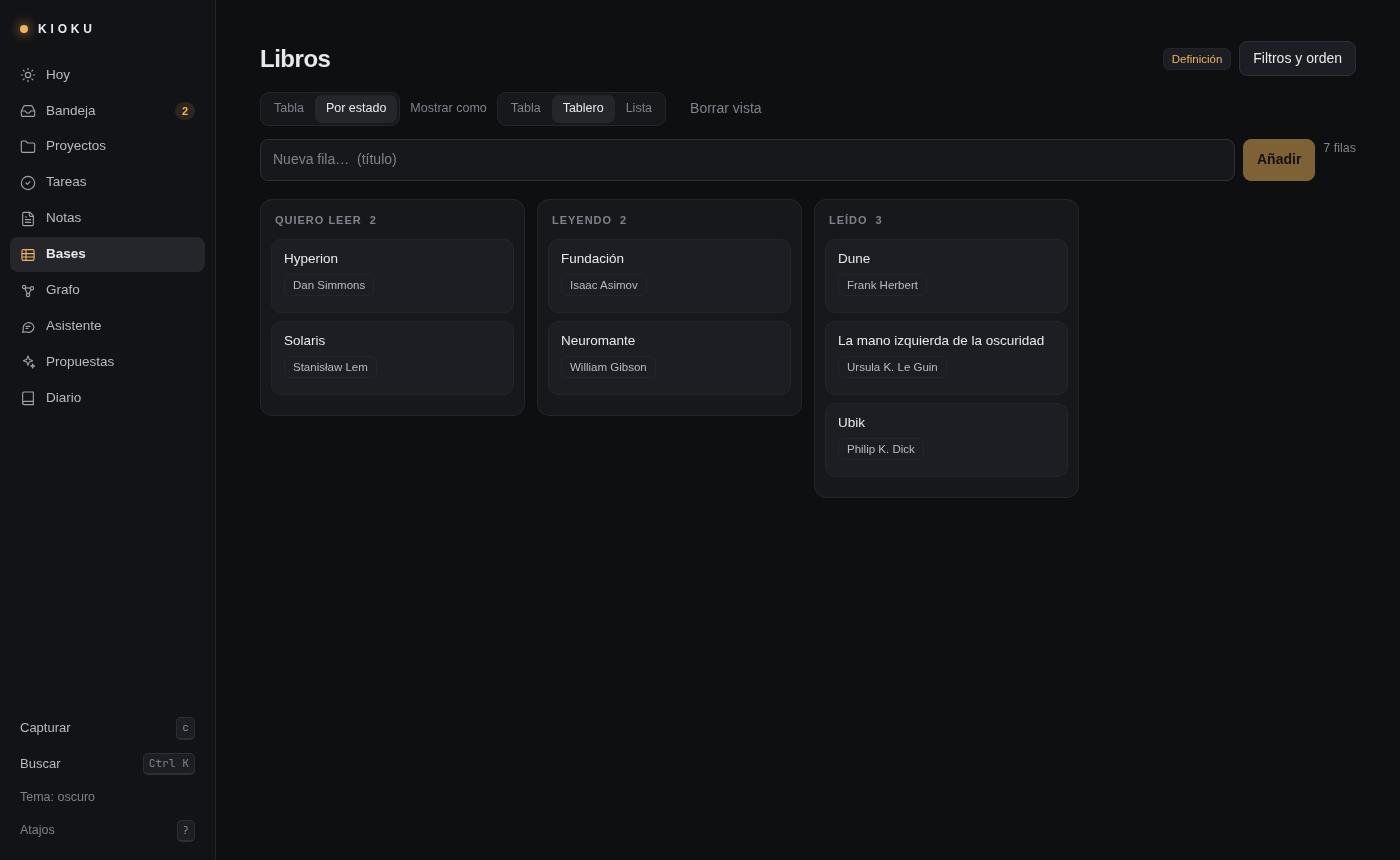
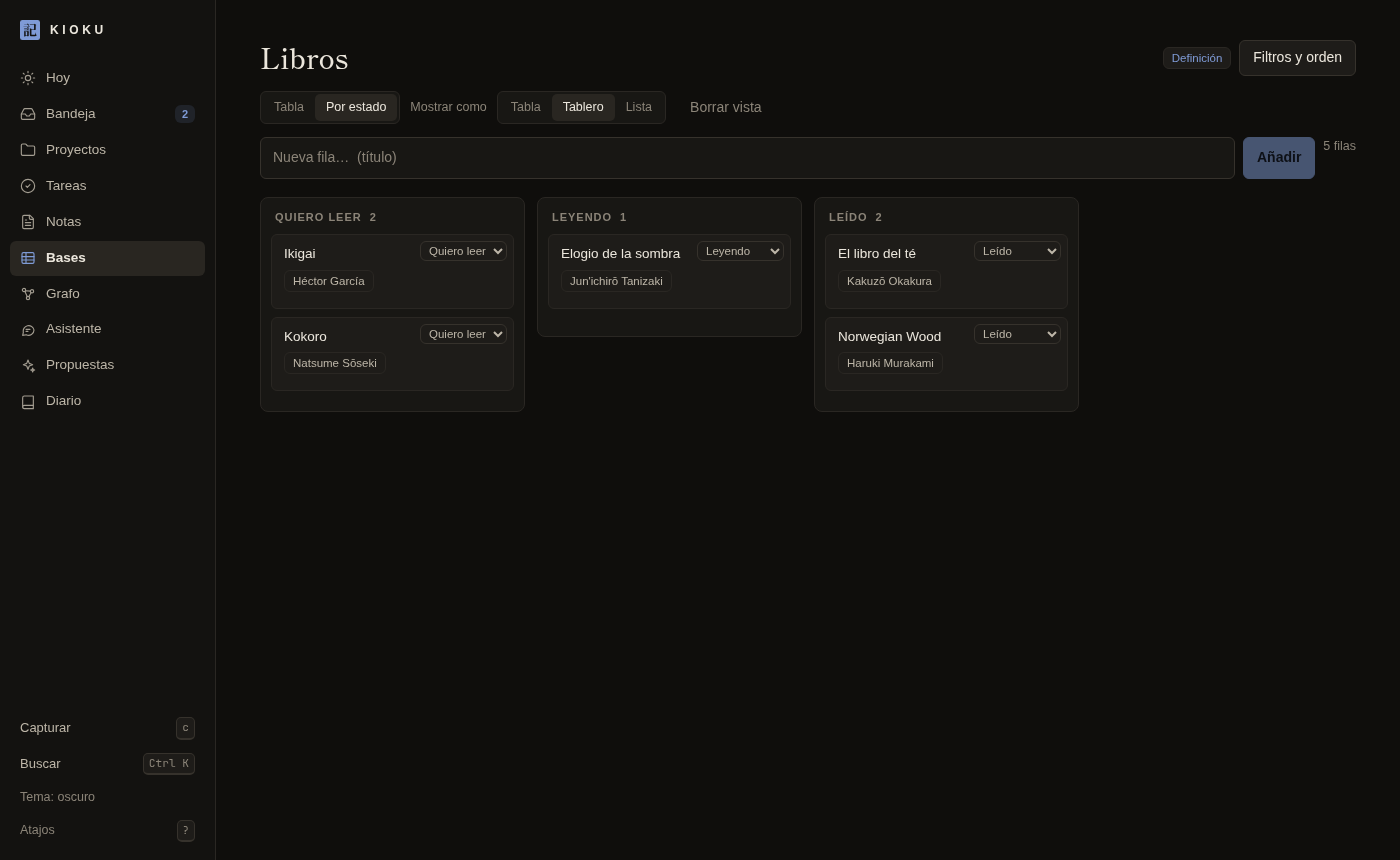
docs: rediseño 0.5.1 (CHANGELOG, README con capturas nuevas, D-20 y sistema visual) (JARV-16)

diff --git a/docs/design/02-TRD-architecture.md b/docs/design/02-TRD-architecture.md
@@ -54,6 +54,7 @@
 | D-17 | Bases de datos = una nota Markdown `Bases/<Nombre>.md` (`type: database`) con `source` (carpeta/tipo/etiquetas que definen las filas), `properties` (esquema opcional: tipo y opciones) y `views` (tabla/tablero/lista con filtros, orden, agrupación y columnas). Las filas son notas normales y cada celda una propiedad de su frontmatter; no hay tabla nueva en el índice: se consulta en memoria sobre `notes.fm_json` (`src/core/database.ts`, puro y tolerante: lo inválido se descarta con aviso). El asistente las usa con `list_databases`/`query_database` (respetan `exclude`) y `create_row` (auto con Deshacer); `set_props` admite cualquier propiedad de usuario con valores simples, pero nunca `id`/`created`/`type`/`parked` ni la definición de una base | Mismo contrato que el resto: Markdown = fuente de verdad (se abren y editan en Obsidian), `index.db` derivado y borrable (test: borrar y reindexar da el mismo resultado), sin estado opaco, y todo cambio del asistente sigue siendo reversible y acotado |
 | D-18 | La API local exige una clave por daemon (`.kioku/secret`, 64 hex, 0600, generada una vez) en todas las rutas `/api`, lecturas incluidas; viaja en cookie `kioku_key` (`HttpOnly; SameSite=Strict`) o cabecera `x-kioku-key` y se compara en tiempo constante. Se entrega con `/?k=<clave>` (cookie + redirección a la ruta limpia). Quedan fuera solo `/api/assistant/tools/list\|call` (token de sesión) y `/api/health` (`{ok:true}`). Las copias de seguridad excluyen el secreto | La jaula del asistente comparte la red (necesita llegar a su proveedor): sin clave podría leer o escribir saltándose las exclusiones y los niveles. Las lecturas también se protegen porque `GET /api/note` esquivaría `exclude`. Complementa D-16 |
 | D-19 | Kioku en el móvil/iPad = una PWA que habla con el mismo daemon por Tailscale (`tailscale serve --bg 47800` publica `https://<equipo>.<tailnet>.ts.net`; el daemon sigue ligado a `127.0.0.1`). El `Host`/`Origin` de esa dirección se acepta solo si está en `KIOKU_ALLOWED_HOSTS` (lista cerrada y exacta, nunca sufijos ni comodines). El móvil usa **otra credencial** (`.kioku/secret-mobile`, 0600, fuera de las exportaciones; `kioku pair` la crea y `kioku pair --revoke` la borra, y el daemon la relee en cada petición, así que revocar es inmediato) con el rol `mobile`, que impone el **servidor** con una lista blanca: todas las lecturas, capturar, tareas, crear/editar notas y propiedades; nunca borrar, asistente, propuestas, foco, escritorio, mantenimiento ni edición de bases. `.kioku/mobile.json` (`{"exclude": ["Privado/"]}`) define carpetas que nunca salen del portátil: se aplican a **todas** las lecturas del rol `mobile` (rutas, listas, búsqueda, Hoy, grafo —también sus contadores y grados—, SSE) y a sus escrituras, normalizando la ruta (`//`, `..`, mayúsculas/NFC). La cookie dura un año y lleva `Secure` cuando el acceso no es local | El móvil es un cliente más y un teléfono se pierde: la credencial limitada, la lista blanca en servidor y las carpetas privadas acotan el daño, y se revoca sin tocar el portátil. Complementa D-18. La edición/lectura sin conexión llegará en las fases 2 y 3 (réplica en IndexedDB) |
+| D-20 | Sistema visual «tinta y papel»: todo el color y la tipografía viven en variables CSS (`app.css`), con dos temas de primera clase (tinta/papel) y un acento (índigo). La serif de los títulos (Shippori Mincho, OFL) va **empaquetada** (`dist/web/fonts/`, subconjunto latino) y la marca (sello 記) es un SVG con trazos: la UI no hace ninguna petición externa, requisito para que el modo sin conexión (fase 2) cachee el diseño completo | Local-first también en lo visual; sin dependencia de Google Fonts; el kanji no arrastra una fuente CJK |
 
 ## Límites conocidos
 - La edición es Markdown con resaltado, no WYSIWYG ni bloques.

diff --git a/README.md b/README.md
@@ -5,11 +5,11 @@
 **Tu segundo cerebro, local y tuyo.**
 Notas en Markdown, tareas, proyectos y bases de datos al estilo Notion, con un asistente que propone y tú apruebas.
 
-[![Versión](https://img.shields.io/badge/versión-0.5.0-e0a458)](CHANGELOG.md)
+[![Versión](https://img.shields.io/badge/versión-0.5.1-7f9bd6)](CHANGELOG.md)
 [![Licencia: MIT](https://img.shields.io/badge/licencia-MIT-green.svg)](LICENSE)
 [![Node](https://img.shields.io/badge/node-%E2%89%A5%2024-339933)](https://nodejs.org)
 [![Local-first](https://img.shields.io/badge/local--first-sin%20nube-2f6f4f)](#privacidad-y-seguridad)
-[![Tests](https://img.shields.io/badge/tests-135%20OK-brightgreen)](#desarrollo)
+[![Tests](https://img.shields.io/badge/tests-180%20OK-brightgreen)](#desarrollo)
 
 <img src="docs/img/hoy.png" alt="Pantalla Hoy: siguiente paso, capturas sin procesar y proyectos para retomar" width="860">
 
@@ -295,8 +295,10 @@ Ideas siguientes, sin orden de compromiso:
 
 ## Versiones
 
-Consulta el [CHANGELOG](CHANGELOG.md). Versión actual: **0.5.0**.
+Consulta el [CHANGELOG](CHANGELOG.md). Versión actual: **0.5.1**.
 
 ## Licencia
 
 [MIT](LICENSE) © 2026 Ezequiel
+
+Tipografías y marca: los títulos usan [Shippori Mincho](https://fonts.google.com/specimen/Shippori+Mincho) y el sello 記 está dibujado a partir de [Noto Serif CJK](https://github.com/notofonts/noto-cjk); ambas bajo licencia [SIL OFL 1.1](https://openfontlicense.org).

diff --git a/CHANGELOG.md b/CHANGELOG.md
@@ -2,6 +2,19 @@
 
 Formato basado en [Keep a Changelog](https://keepachangelog.com/es-ES/1.1.0/); versionado [SemVer](https://semver.org/lang/es/).
 
+## [0.5.1] — 2026-10-27
+
+### Cambiado
+- **Rediseño «tinta y papel»** (JARV-16): paleta cálida para el tema oscuro («tinta») y un tema claro «papel» cuidado, con **índigo (藍)** como único acento; esquinas más suaves, líneas finas y más aire. Los títulos pasan a serif (**Shippori Mincho**, empaquetada: subconjunto latino, sin cargar nada de Internet) y el texto sigue en sans.
+- **Nueva marca: sello 記** (hanko) en la barra lateral, el icono de la PWA y el favicon; el kanji va como trazos, sin depender de ninguna fuente.
+- Los colores por tipo del grafo salen de variables del tema (`--t-*`) y se ven bien también sobre papel. La ventana Quick usa la misma paleta.
+- Las fuentes se sirven como `font/woff2` con caché de una semana; el resto sigue sin caché.
+- Contraste revisado (texto ≥ 4.5:1 en ambos temas). Capturas del README renovadas.
+
+### Desarrollo
+- Nueva dependencia de desarrollo `@fontsource/shippori-mincho` 5.3.0 (licencia OFL-1.1); el build copia solo los dos pesos usados.
+- `test/web-assets.test.ts`: sin recursos externos, fuente empaquetada, sello sin `<text>`, manifest/`theme-color`/fondo coherentes y colores del grafo en variables.
+
 ## [0.5.0] — 2026-10-27
 
 ### Añadido

diff --git a/docs/design/03-ui-ux.md b/docs/design/03-ui-ux.md
@@ -2,7 +2,8 @@
 
 ## Principios visuales
 - Minimalista, denso en información útil, silencioso. Una sola acción primaria por pantalla.
-- Tema oscuro por defecto con soporte claro (`prefers-color-scheme`); tokens en `:root`. Tipografía del sistema + monoespaciada para el editor. Sin animaciones decorativas (solo transiciones ≤120 ms de estado).
+- Tema oscuro por defecto con soporte claro (`prefers-color-scheme`); tokens en `:root`. Sin animaciones decorativas (solo transiciones ≤120 ms de estado).
+- **Sistema visual «tinta y papel» (0.5.1, D-20):** tinta cálida (oscuro) y papel crema (claro), un solo acento índigo (藍), esquinas de 4–8 px, líneas finas y espacio generoso. Títulos en serif (Shippori Mincho, empaquetada), texto en sans, monoespaciada para código. Marca: sello 記 (hanko). Sin decoración «de postal»: lo japonés se nota en el vacío y el ritmo, no en adornos. Contraste mínimo 4.5:1 en texto.
 - Mouse opcional: todo es alcanzable por teclado y se anuncia en un pie de atajos contextual.
 
 ## Estructura del Workspace
